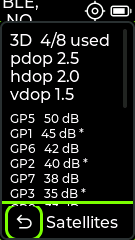
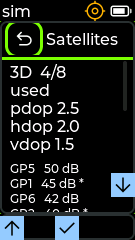
fix: stabilize physical UI validation and replay

diff --git a/tests/host/console_commands_test.cpp b/tests/host/console_commands_test.cpp
@@ -555,6 +555,28 @@ void testSettings(void) {
   check(Furble::Settings::load<uint8_t>(Furble::Settings::HW_MOTION) == 2,
         "a rejected motion engine write leaves the stored value alone");
 
+  // LEGEND is a uint8 enum with three valid placements. Exercise the console
+  // type/print path, every valid value, and the guarded invalid branch so a
+  // future enum extension cannot silently lose its validation coverage.
+  const Result legendGet = runDirect("settings get legend");
+  check(legendGet.rc == 0, "settings get legend returns success");
+  checkContains(legendGet.out, "type: uint8", "legend reports its storage type");
+  checkContains(legendGet.out, "value: ", "legend prints its current value");
+  for (const char *value : {"0", "1", "2"}) {
+    const Result legendSet = runDirect(std::string("settings set legend ") + value);
+    check(legendSet.rc == 0, std::string("legend accepts value ") + value);
+    checkContains(legendSet.out, "saved: legend", std::string("legend saves value ") + value);
+    check(Furble::Settings::load<uint8_t>(Furble::Settings::LEGEND) ==
+              static_cast<uint8_t>(strtoul(value, nullptr, 10)),
+          std::string("legend stores value ") + value);
+  }
+  const Result legendBad = runDirect("settings set legend 3");
+  check(legendBad.rc != 0, "legend rejects a value above Off");
+  checkContains(legendBad.out, "expected 0 (buttons), 1 (bottom) or 2 (off)",
+                "legend error names all valid values");
+  check(Furble::Settings::load<uint8_t>(Furble::Settings::LEGEND) == 2,
+        "a rejected legend write leaves the stored value alone");
+
   // The motion source: the hardware gate's readout, and the calibration knob
   // for a board whose accelerometer noise floor disagrees with the shipped
   // threshold. PR65's motion-adaptive GPS consumes the same source, so the

diff --git a/sim/fuzz.cpp b/sim/fuzz.cpp
@@ -625,9 +625,14 @@ void fuzzTick(UI *ui) {
       recordEvent(pendingDescription);
       eventCounts[pendingDescription]++;
       checkpointEligible = true;
-      // The post-handler hook counts the current LVGL cycle and the next
-      // settle cycles before Check reads any state.
-      machine->eventApplied(2 + pick(5));
+      // Let the UI and its scheduler-visible workers finish a complete
+      // handoff before checking the resulting page. Two cycles were enough
+      // for most events but allowed a host-thread wakeup to land one cycle
+      // late, which made page coverage depend on wall-clock scheduling. Keep
+      // the randomized tail so the fuzzer still exercises different settling
+      // windows, but make the minimum deterministic and long enough for the
+      // slowest production path.
+      machine->eventApplied(6 + pick(5));
       return;
 
     case FuzzPhase::SETTLE:

diff --git a/sim/fuzz_machine.cpp b/sim/fuzz_machine.cpp
@@ -156,7 +156,7 @@ bool FuzzMachine::restore(const Checkpoint &checkpoint) {
       attempted_ == stepCount_ && phase_ == FuzzPhase::SETTLE && settleNext_ == FuzzPhase::ESCAPE;
   const uint64_t observedTotal = static_cast<uint64_t>(observedDelta_) + noObservedDelta_;
   const bool phaseValid =
-      (phase_ == FuzzPhase::SETTLE && settleRemaining_ > 0 && settleRemaining_ <= 6
+      (phase_ == FuzzPhase::SETTLE && settleRemaining_ > 0 && settleRemaining_ <= 10
        && ((pendingEvent && settleNext_ == FuzzPhase::CHECK) || escapeSettle))
       || (phase_ == FuzzPhase::CHECK && pendingEvent && settleRemaining_ == 0)
       || (phase_ != FuzzPhase::SETTLE && phase_ != FuzzPhase::CHECK);
